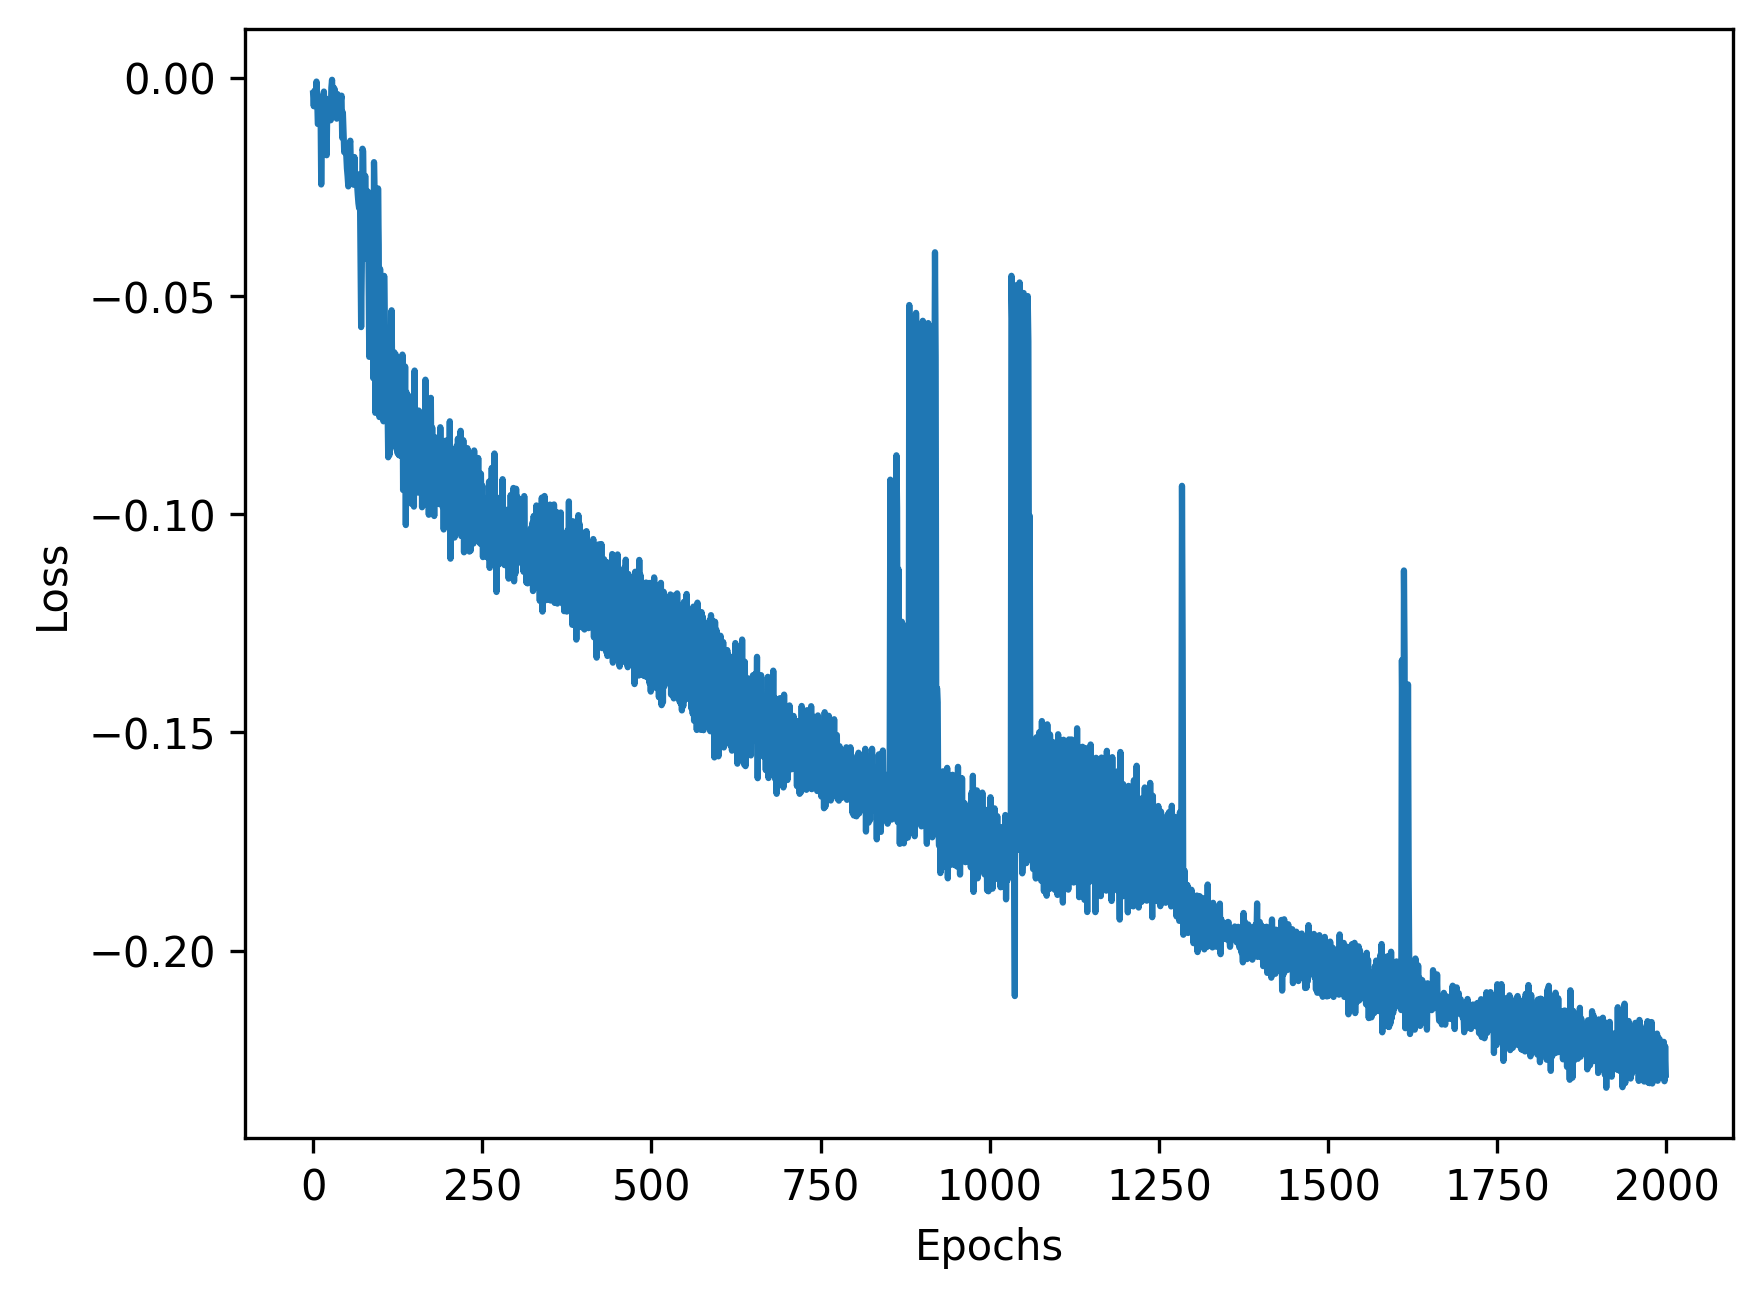
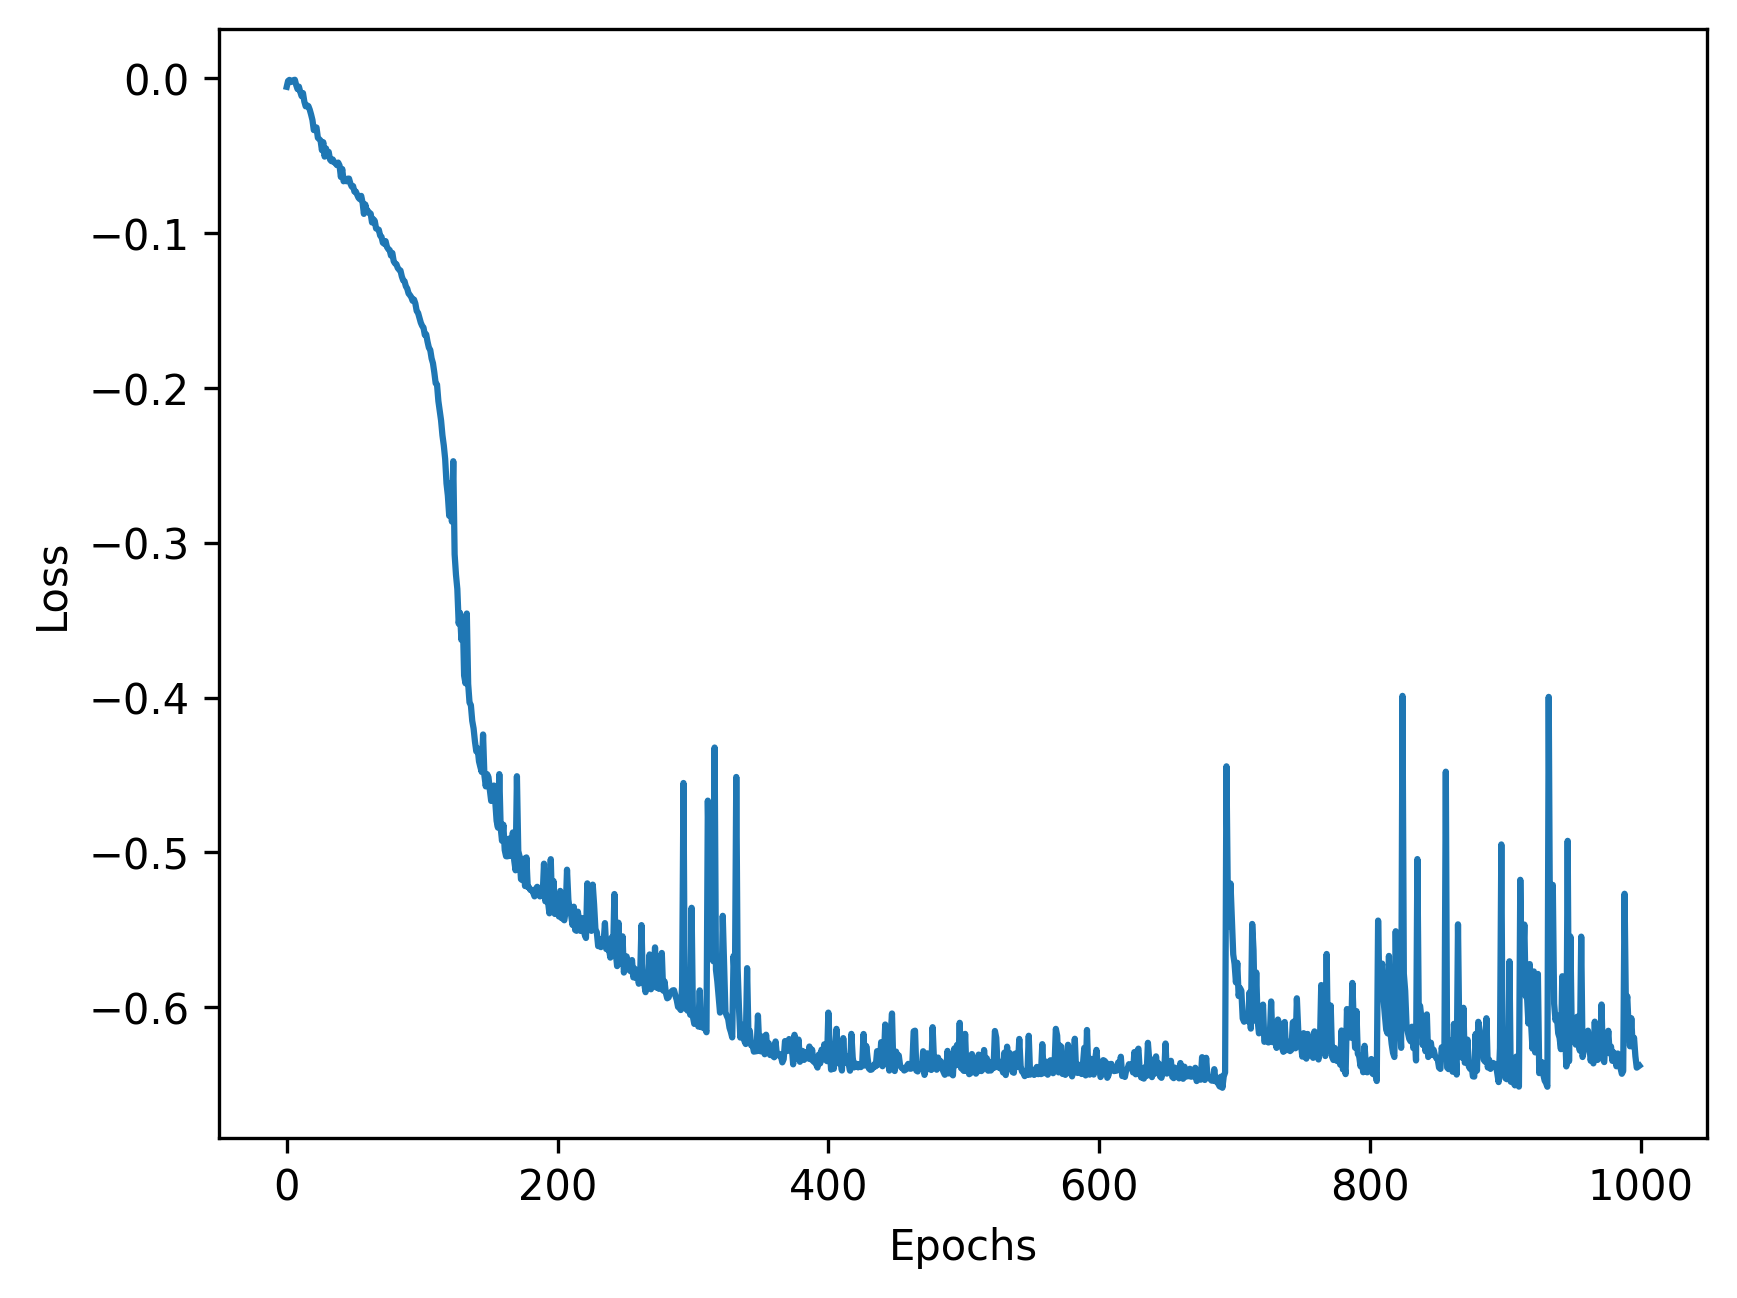
Definitive improvement: net expanded with two more layers of reasoning (no changing in dimensions, only channels). efficiency: 0.65, with even low times. Next step, passage to high dimensions for the cell and 36 angles. Even the surface is better, but the goal is a surface without granularity (we ne

diff --git a/net.py b/net.py
@@ -95,12 +95,27 @@ class ConvNetRCWA(nn.Module):
         self.register_buffer("initial_rho", nn.Parameter(torch.rand(1, 2 ** n, 2 ** m)))
 
         self.net = nn.Sequential(
+            # fist halving, reasoning
             nn.Conv2d(1, 16, kernel_size=3, stride=2, padding=1),
+            nn.InstanceNorm2d(16),
             nn.ReLU(),
 
-            nn.Conv2d(16, 32, kernel_size=3, stride=2, padding=1),
+            # reasoning
+            nn.Conv2d(16, 32, kernel_size=3, stride=1, padding='same'),
+            nn.InstanceNorm2d(32),
             nn.ReLU(),
 
+            # second halving
+            nn.Conv2d(32, 64, kernel_size=3, stride=2, padding=1),
+            nn.InstanceNorm2d(64),
+            nn.ReLU(),
+
+            # reasoning
+            nn.Conv2d(64, 32, kernel_size=3, stride=1, padding='same'),
+            nn.InstanceNorm2d(32),
+            nn.ReLU(),
+
+            # last halving
             nn.Conv2d(32, 1, kernel_size=3, stride=2, padding=1)
         )
 
@@ -138,20 +153,21 @@ if __name__ == '__main__':
         best_loss = float('inf')
         lr = 0.001"""
     
-    epochs = 2000
+    epochs = 1000
 
     solver = rcwa_solver(device)
-    optimizer = optim.Adam(model.parameters(), lr=0.002, betas=(0.5, 0.9))
+    optimizer = optim.Adam(model.parameters(), lr=0.0003, betas=(0.5, 0.9))
     #scheduler = optim.lr_scheduler.ReduceLROnPlateau(optimizer, mode='min', factor=0.2, patience=100, min_lr=1e-6)
     scheduler = optim.lr_scheduler.CosineAnnealingLR(optimizer, T_max=epochs, eta_min=1e-6)
 
     loss_plot = []
+    best_loss = float('inf')
 
     for epoch in range(epochs):
         model.train()
         optimizer.zero_grad()
 
-        current_tau = max(0.1, 3.0 * (0.999 ** epoch))
+        current_tau = max(0.1, 3.0 * (0.995 ** epoch))
 
         r, v = model(solver, tau=current_tau)
         print(r.shape)
@@ -168,14 +184,15 @@ if __name__ == '__main__':
         
         print(f"Epoch {epoch+1} - Loss: {loss:.4f}")
 
-        """if loss.item() < best_loss:
+        if loss.item() < best_loss:
             best_loss = loss.item()
             checkpoint = {
-                'epoch': epoch,
                 'best_loss': best_loss,
                 'model_state': model.state_dict()
             }
-            torch.save(checkpoint, 'best_model.pth')"""
+            torch.save(checkpoint, 'best_model.pth')
+
+    print(best_loss)
 
     # plot the loss
     plt.figure()
@@ -195,6 +212,3 @@ if __name__ == '__main__':
     plt.colorbar()
     plt.savefig("rho.png", dpi=300, bbox_inches="tight")
     plt.show()
-
-    # save the model
-    torch.save(model.state_dict(), 'model.pth')